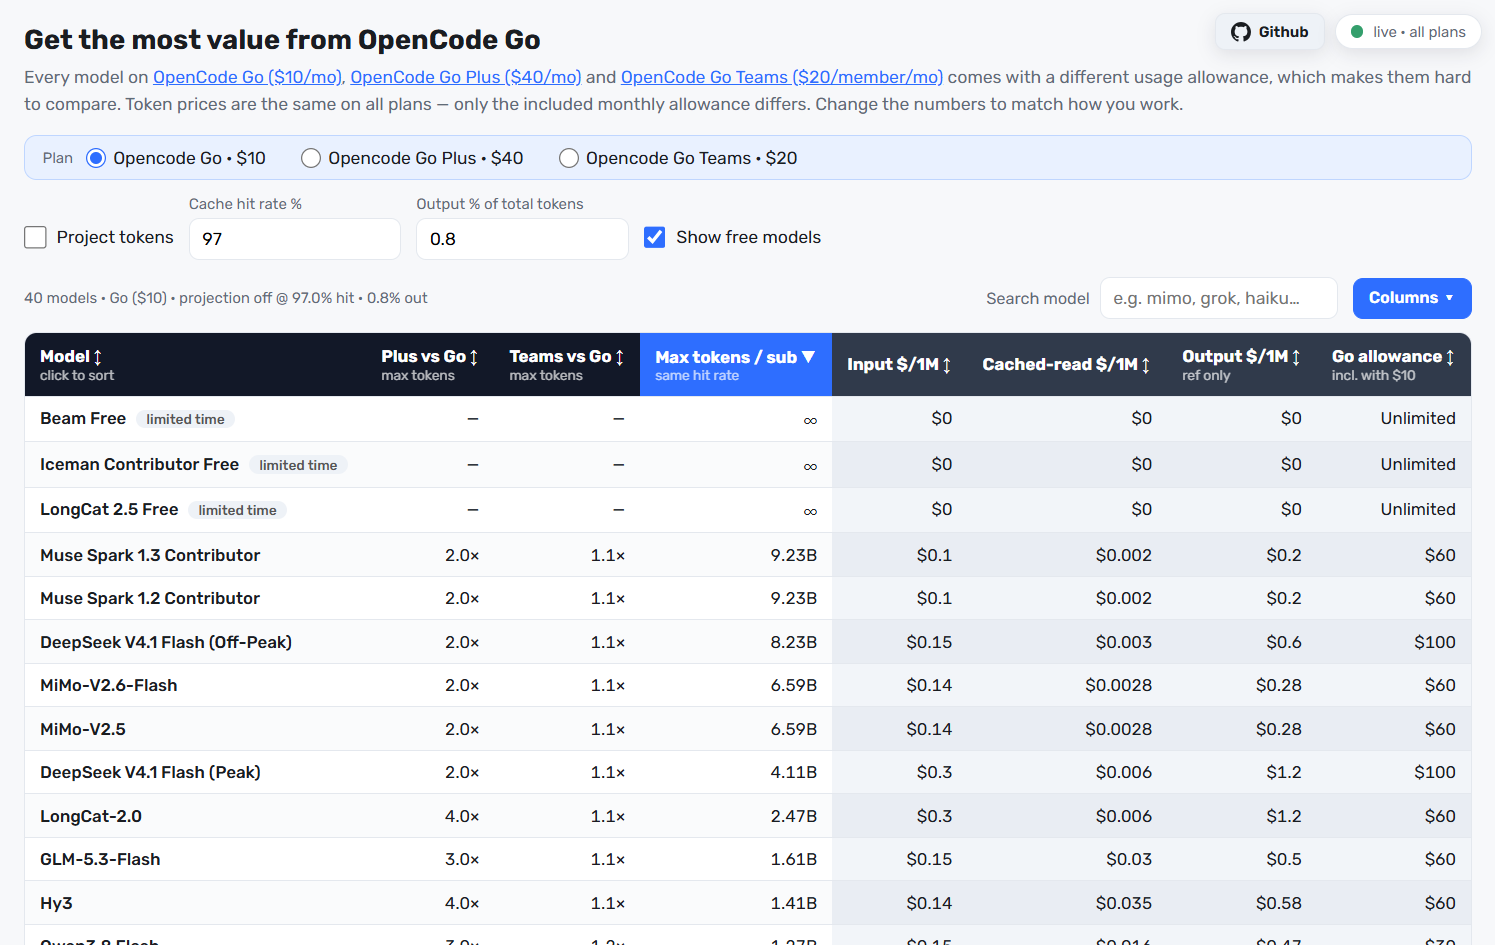
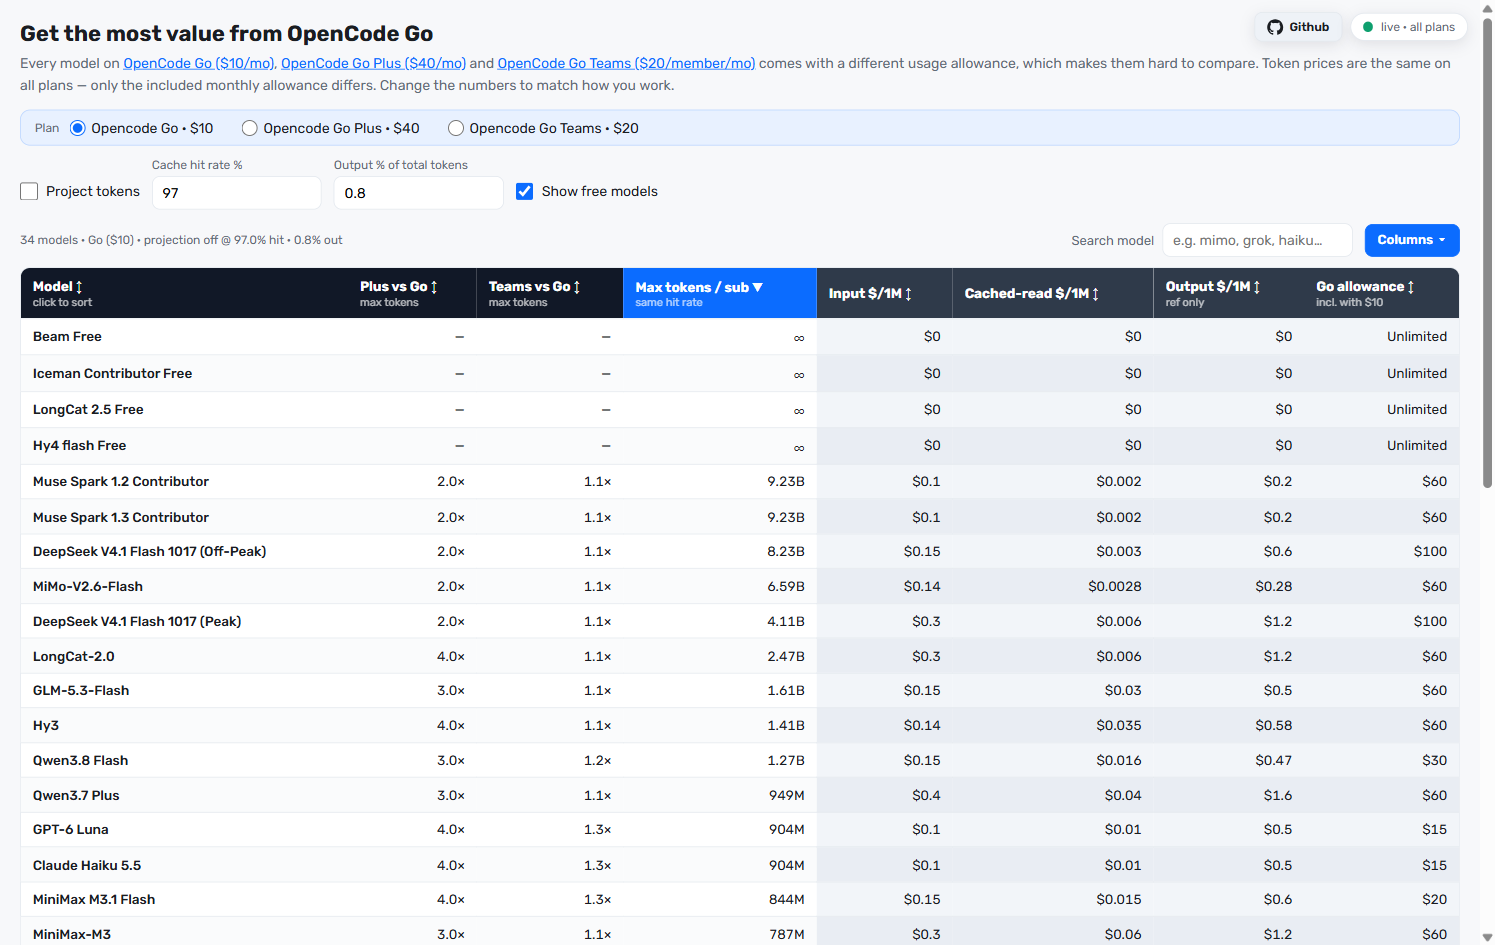
Fix live prices after OpenCode moved pricing to models API
The docs pages no longer contain pricing tables, so every fetch failed with 'pricing table not found'.

- Parse https://opencode.ai/inference/go/v1/models (prices + go/go-plus/go-teams allowances)

- Keep the docs Markdown/HTML parsers as fallbacks

- Show free models as Unlimited again and fix NaN% in project mode

- Expand recurring peak multipliers into (Off-Peak)/(Peak) rows

- Apply scheduled date multipliers when active, tag them before then

- Update docs and screenshot

diff --git a/index.html b/index.html
@@ -112,7 +112,7 @@
     <div><label for="hit">Cache hit rate %</label><input id="hit" class="num-in" type="number" value="97" min="0" max="99.99" step="0.5" /></div>
     <div><label for="outPct">Output % of total tokens</label><input id="outPct" class="num-in" type="number" value="0.8" min="0" max="90" step="0.1" /></div>
     <div class="checkline"><input id="showFree" type="checkbox" checked /><label for="showFree">Show free models</label></div>
-    <div><button id="srcBtn" type="button" title="Fetch the latest Go-plan table from the OpenCode docs and update the table">↻ Refresh from source</button></div>
+    <div><button id="srcBtn" type="button" title="Fetch the latest Go prices and allowances from OpenCode and update the table">↻ Refresh from source</button></div>
   </div>
 </header>
 <div class="tablebar">
@@ -143,7 +143,7 @@
     <th class="ref">Output $/1M ↕<small>ref only</small></th>
     <th class="ref" id="thLimit">Go allowance ↕<small>incl. with $10</small></th>
   </tr></thead>
-  <tbody id="body"><tr><td colspan="14" class="loading">Loading live prices from the OpenCode docs…</td></tr></tbody>
+  <tbody id="body"><tr><td colspan="14" class="loading">Loading live prices from OpenCode…</td></tr></tbody>
 </table>
 </div>
 <footer>
@@ -157,13 +157,16 @@
   (e.g. $3.73 on a $60 Go allowance = 6.2%, ≈16.1 blocks per month). Values &gt;100% mean the workload does <em>not</em> fit in one subscription for that model.<br/>
   <strong>Assumptions:</strong> “Total tokens” splits into input and output by “Output %”;
   output tokens are always charged at the full output rate (no cache discount on generated text).
-  Tiered rows (context-size / peak / off-peak) are listed separately as in the official table. Rows priced Free in the source table cost $0.
-  This page stores no prices: it fetches the latest Go / Go Plus / Go Teams tables live from the
-  <a href="https://opencode.ai/docs/console/go/">OpenCode Go pricing</a> docs on every load
-  (official Markdown first, then the page HTML, then via a text proxy when the browser blocks cross-site requests);
+  Prices are the standard rates reported by the Go models endpoint; models with
+  peak-time multipliers get separate (Off-Peak) / (Peak) rows, and a scheduled
+  price change is applied when it takes effect (tagged before then). Rows priced
+  Free cost $0.
+  This page stores no prices: it fetches the latest Go / Go Plus / Go Teams prices and allowances live from the
+  <a href="https://opencode.ai/docs/console/go/">OpenCode Go</a> models endpoint on every load
+  (the docs page, official Markdown, and text proxies are fallbacks when the endpoint or cross-site requests fail);
   successful fetches are cached in this browser for an hour for fast reloads.
   Press “↻ Refresh from source” to force a re-check.
-  If the docs gain a new model row, it appears here automatically on the next load.
+  If OpenCode adds a new model, it appears here automatically on the next load.
   “Tokens / sub” is the total tokens the subscription’s allowance buys at the current hit rate and output share (allowance ÷ blended $/1M price; updates when you change either).
   “Plus vs Go” is how many times more tokens Go Plus buys than Go for that model (Go Plus allowance ÷ Go allowance; token prices are identical, so hit rate and output share cancel out). Free rows show “—”.
   “Teams vs Go” is the same comparison against the Go Teams allowance. Free rows show “—”.
@@ -173,15 +176,16 @@
 <script>
 "use strict";
 /* Fully client-side. No server, no build: all math + rendering happens here.
-   Prices are NOT stored in this page - they are fetched live from the official
-   Go / Go Plus / Go Teams docs tables on every load (official Markdown, page
-   HTML, or via a text proxy when the browser blocks cross-site requests)
-   and cached in localStorage for an hour. */
+   Prices are NOT stored in this page - they are fetched live from the OpenCode
+   Go models endpoint on every load (with the docs page/Markdown and text
+   proxies as fallbacks) and cached in localStorage for an hour. */
 const PREFS_KEY = "go-prefs-v10"; // v10: "Teams vs Go" column added after "Plus vs Go"
 const LEGACY_PREFS_KEYS = ["go-prefs-v9", "go-prefs-v8", "go-prefs-v7", "go-prefs-v6", "go-prefs-v5", "go-prefs-v4", "go-prefs-v3"];
 const SOURCE_URL = "https://opencode.ai/docs/console/go/";
 const MD_SOURCE_URL = "https://opencode.ai/docs/console/go.md";
+const MODELS_SOURCE_URL = "https://opencode.ai/inference/go/v1/models";
 const PROXY_MD_URL = "https://r.jina.ai/https://opencode.ai/docs/console/go.md";
+const PROXY_MODELS_URL = "https://r.jina.ai/https://opencode.ai/inference/go/v1/models";
 const PROXY_URL = "https://r.jina.ai/https://opencode.ai/docs/console/go/";
 const LIVE_KEY = "go-live-v3"; // v3: stores { go, plus, teams } rows per plan
 const LIVE_TTL_MS = 3600 * 1000; // remember refreshed prices for 1 hour
@@ -282,8 +286,8 @@ function savePrefs() {
   } catch {}
 }
 
-// No prices are stored in this page. MODELS is fetched live from the official
-// Go / Go Plus / Go Teams docs tables on every load (see refreshFromSource). Each entry
+// No prices are stored in this page. MODELS is fetched live from the OpenCode
+// Go models endpoint on every load (see refreshFromSource). Each entry
 // looks like { model, input, output, cached, limit, limitPlus, limitTeams, note? }: prices
 // in $ per 1M tokens, limit / limitPlus / limitTeams are the Go / Go Plus / Go Teams
 // monthly allowances in $ (null = Unlimited).
@@ -453,6 +457,80 @@ function parseSourceHtml(htmlText) {
   };
 }
 
+// Parse the Go models endpoint (current source of truth). Prices live in
+// cost.text (input / cached-read / output) and per-plan monthly allowances in
+// go.monthly_usage ("go" / "go-plus" / "go-teams"). Free models have $0 prices
+// and no monthly_usage, so their allowance is null (Unlimited). The endpoint
+// sends Access-Control-Allow-Origin: *, so browsers can fetch it directly.
+function parseSourceModels(text) {
+  let body;
+  try { body = JSON.parse(text); } catch { throw new Error("models endpoint did not return JSON"); }
+  const list = Array.isArray(body) ? body : body && Array.isArray(body.data) ? body.data : null;
+  if (!list) throw new Error("models list not found in source page");
+  const num = (v) => { const n = Number(v); return isFinite(n) && n >= 0 ? n : 0; };
+  const allowance = (usage, plan) => {
+    if (!usage || usage[plan] === undefined || usage[plan] === null) return null;
+    return num(usage[plan]);
+  };
+  // Newer API versions attach cost.multipliers (recurring peak hours, or a
+  // scheduled price change). The docs used to list off-peak/peak as separate
+  // rows, so expand recurring peak rules into extra rows to preserve that
+  // view; scheduled date changes become a small note on the base row.
+  const variantsFor = (m) => {
+    const rules = m.cost && Array.isArray(m.cost.multipliers) ? m.cost.multipliers : [];
+    const variants = [{ suffix: "", factor: 1, note: null }];
+    let hasPeak = false;
+    let dateFactor = 1;
+    const today = new Date().toISOString().slice(0, 10); // UTC date, same as API dates
+    for (const rule of rules) {
+      const factor = Number(rule.factor);
+      if (!isFinite(factor) || factor <= 0 || factor === 1) continue;
+      const when = rule.when || {};
+      if (when.date) {
+        const gte = when.date.gte, lt = when.date.lt;
+        const active = (!gte || today >= gte) && (!lt || today < lt);
+        if (active) dateFactor *= factor;
+        else if (gte) variants[0].note = factor + "× from " + gte;
+        continue;
+      }
+      const peak = when.utc_days || when.utc_hours || when.any || when.all;
+      variants.push({ suffix: " (" + (peak ? "Peak" : factor + "×") + ")", factor, note: null });
+      hasPeak = true;
+    }
+    if (dateFactor !== 1) variants.forEach((v) => { v.factor *= dateFactor; });
+    if (hasPeak) variants[0].suffix = " (Off-Peak)";
+    return variants;
+  };
+  const rowsFor = (plan, requireAllowance) => {
+    const rows = [];
+    for (const m of list) {
+      if (!m || typeof m !== "object" || (m.type && m.type !== "chat")) continue;
+      const name = cleanModelName(m.name || m.id || "");
+      const cost = m.cost && m.cost.text;
+      if (!name || !cost || !cost.input || !cost.output) continue;
+      const limit = allowance(m.go && m.go.monthly_usage, plan);
+      if (requireAllowance && limit === null) continue;
+      for (const v of variantsFor(m)) {
+        const row = {
+          model: name + v.suffix,
+          input: num(cost.input.price) * v.factor,
+          output: num(cost.output.price) * v.factor,
+          cached: num(cost.input.cache && cost.input.cache.read) * v.factor,
+          limit, // free models omit monthly_usage -> null (Unlimited)
+        };
+        if (v.note) row.note = v.note;
+        rows.push(row);
+      }
+    }
+    return rows;
+  };
+  const go = rowsFor("go", false);
+  if (go.length < 10) throw new Error("pricing table not found in source page");
+  // Only override a plan's allowance when that plan lists the model;
+  // mergePlanRows() otherwise mirrors the Go allowance.
+  return { go, plus: rowsFor("go-plus", true), teams: rowsFor("go-teams", true) };
+}
+
 // Merge Go + Go Plus + Go Teams rows by model name. Prices are identical across
 // plans; only the allowance (limit vs limitPlus vs limitTeams) differs.
 // Everything comes from the live fetch: if a model has no row in a plan table
@@ -545,11 +623,12 @@ function applyLiveData(goRows, plusRows, teamsRows, via) {
 
 async function refreshFromSource() {
   srcBtn.disabled = true;
-  // Order matters: the official go.md contains every plan tab in one file, so
-  // try it first. The HTML page needs panel-aware parsing; the legacy Jina
-  // mirror of the HTML only renders the Go tab, so the Jina mirror of go.md
-  // (all plans) is preferred over it.
+  // The models endpoint is the current source of truth (the docs page no
+  // longer embeds pricing tables). Keep the older docs/Markdown parsers as
+  // fallbacks in case the endpoint is unavailable or the docs regain tables.
   const attempts = [
+    { url: MODELS_SOURCE_URL, via: "models api", parse: parseSourceModels },
+    { url: PROXY_MODELS_URL, via: "text proxy api", parse: parseSourceModels },
     { url: MD_SOURCE_URL, via: "direct md", parse: parseSourceMarkdown },
     { url: SOURCE_URL, via: "direct", parse: parseSourceHtml },
     { url: PROXY_MD_URL, via: "text proxy md", parse: parseSourceMarkdown },
@@ -687,7 +766,7 @@ function render() {
     const cashPct = cost / subPrice * 100;
     const subs = cost / subPrice;
     const perSub = cost > 0 ? subPrice / cost : Infinity;
-    const allowPct = lim === null || lim === undefined ? null : cost / lim * 100;
+    const allowPct = (lim === null || lim === undefined || !(lim > 0)) ? null : cost / lim * 100;
     const barW = allowPct === null ? 0 : Math.min(100, allowPct);
     const blended = (1 - p) * ((1 - h) * m.input + h * m.cached) + p * m.output; // $ per 1M total tokens
     const maxTok = (lim === null || lim === undefined || blended <= 0) ? Infinity : lim / blended * 1e6;

diff --git a/docs/how-it-works.md b/docs/how-it-works.md
@@ -8,9 +8,18 @@ plus the live price fetch.
 
 `MODELS` starts empty and is filled on every load by `refreshFromSource()`:
 
-- Tries in order: official Markdown (`go.md`, all three plan tables) →
-  docs HTML → Jina text-proxy mirror of the Markdown → legacy HTML mirror
-  (Go tab only).
+- Tries in order: models endpoint (`/inference/go/v1/models`, CORS enabled) →
+  Jina text-proxy mirror of that endpoint → official Markdown (`go.md`) →
+  docs HTML → text-proxy mirrors. The endpoint is the current source of truth;
+  the docs parsers are fallbacks.
+- Models parsing (`parseSourceModels`): `data[]` rows; `name` is the display
+  name, `cost.text.input.price` / `.input.cache.read` / `.output.price` are the
+  per-1M prices, and `go.monthly_usage.go` / `"go-plus"` / `"go-teams"` are the
+  monthly allowances. Free models have $0 prices and omit `monthly_usage`
+  (allowance `null` = Unlimited). Recurring `cost.multipliers` (peak hours)
+  expand into extra `(Peak)` rows alongside the `(Off-Peak)` base row; a
+  scheduled date multiplier is applied once its date arrives, and tagged on the
+  base row before then.
 - Markdown parsing (`parseSourceMarkdown`): every pipe-table with
   Input + Monthly-limit columns. Order is Go, Go Plus, Go Teams.
 - HTML parsing (`parseSourceHtml`): prefers
@@ -19,10 +28,10 @@ plus the live price fetch.
 - `mergePlanRows()` joins plans by model name. Prices are identical across
   plans — only `limit` (Go $10), `limitPlus` (Go Plus $40), `limitTeams`
   (Go Teams $20/member) differ. A missing plan row falls back to the Go limit.
-- Cell rules: `Free` → 0, `~~old~~ new` → last price wins,
+- Cell rules (docs fallbacks): `Free` → 0, `~~old~~ new` → last price wins,
   `Unlimited` limit → `null`, `limited time` tag derived from the limit cell.
 - Successful fetches cache `{ go, plus, teams }` for 1 hour (`go-live-v3`);
-  next load paints from cache, then revalidates. New docs rows appear
+  next load paints from cache, then revalidates. New API rows appear
   automatically. Total failure keeps cached prices (with reason) or shows an
   error row with Retry.
 

diff --git a/docs/testing.md b/docs/testing.md
@@ -17,11 +17,14 @@
    ($3.73 ÷ $180 × $40); at 0% out it reproduces the old input-only $3.36.
    Session scale (11.9M total, 0.99% out): Muse Spark 1.3 ≈ $0.082.
 
-4. Parser: download the official markdown
-   (`curl -s "https://opencode.ai/docs/console/go.md" -o /tmp/go.md`),
-   evaluate the pure parser functions in Node (slice the script from
-   `function parsePrice` to `function readLive` — no DOM stubs needed), and
-   assert well-formed rows: ≥ 30 rows, non-empty names, non-negative prices,
-   positive-or-null limits. Exercise `refreshFromSource` with stubbed `fetch`
-   (direct rejects, proxy resolves) and all-rejecting `fetch` for both failure
-   paths (with and without cached `MODELS`).
+4. Sources: fetch the models endpoint
+   (`curl -s "https://opencode.ai/inference/go/v1/models" -o /tmp/go-models.json`)
+   and evaluate `parseSourceModels` in Node (slice the script from
+   `function parsePrice` to `function readLive` — no DOM stubs needed). Assert
+   well-formed rows: ≥ 30 rows, non-empty names, non-negative prices, and
+   per-plan allowances (`go` > 0 for paid models, `null` for free rows). Also
+   download the Markdown fallback (`curl -s "https://opencode.ai/docs/console/go.md" -o /tmp/go.md`)
+   and check `parseSourceMarkdown` still returns well-formed rows if the docs
+   regain pricing tables. Exercise `refreshFromSource` with stubbed `fetch`
+   (direct endpoint rejects, proxy resolves) and all-rejecting `fetch` for both
+   failure paths (with and without cached `MODELS`).

diff --git a/README.md b/README.md
@@ -7,9 +7,10 @@ all plans — only the monthly allowance differs.
 ![Page screenshot](docs/screenshot.png)
 
 Live page: single self-contained `index.html` (no build step). It fetches the
-latest Go / Go Plus / Go Teams tables from the
-[OpenCode Go pricing docs](https://opencode.ai/docs/console/go/) on every load,
-caches for an hour, and renders the comparison.
+latest Go / Go Plus / Go Teams prices and allowances from the
+[OpenCode Go models endpoint](https://opencode.ai/inference/go/v1/models) on
+every load, caches for an hour, and renders the comparison. The docs page,
+Markdown, and text proxies remain as fallbacks.
 
 - Plan radio switches all allowance-derived columns.
 - Optional **Project tokens** workload reveals the blue-tinted cost columns.

diff --git a/docs/developing.md b/docs/developing.md
@@ -3,9 +3,9 @@
 ## No price maintenance
 
 There is no price list to edit. New models, price changes, and allowance
-changes in the source docs flow in automatically. Only touch the parser if the
-docs change the table *shape* (e.g. a new price column in `rowsFromCells`,
-or renamed headers).
+changes in the source endpoint flow in automatically. Only touch the parser if
+the source changes shape (e.g. a new price field in `parseSourceModels`, or
+renamed columns in `rowsFromCells`).
 
 ## Add a column
 
